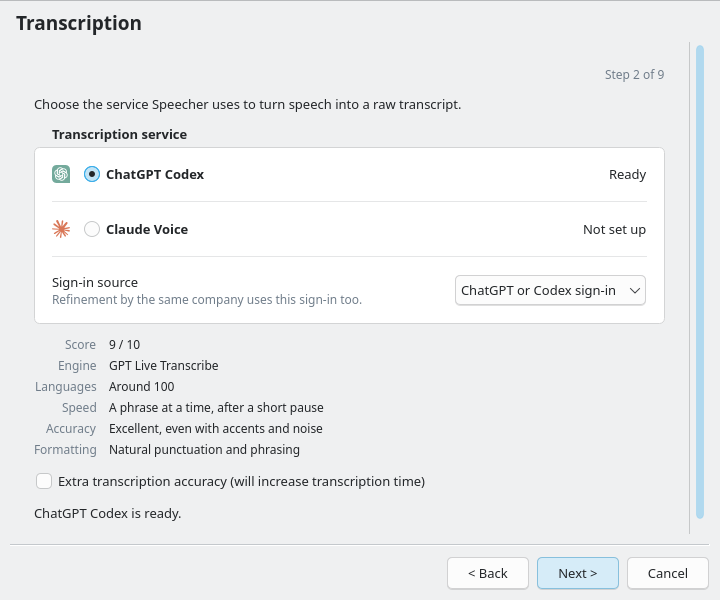
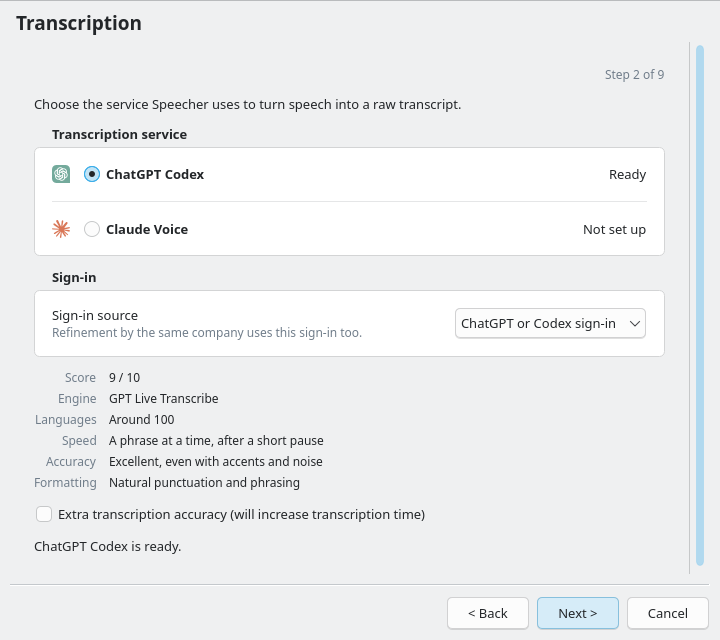
Give the setup sign-in controls their own card
Inside the Transcription service card the sign-in source dropdown read as a
second service picker. The controls move to a titled Sign-in card below the
service choice, the assistant grows to keep the page scrollbar-free, and the
whole section hides for a provider without these controls rather than
leaving a floating header.

diff --git a/src/ui/setup/SetupPages.cpp b/src/ui/setup/SetupPages.cpp
@@ -738,10 +738,16 @@ SpeechProviderSetupPage::SpeechProviderSetupPage(SettingsStore &settings,
         m_options.first().button->setChecked(true);
     }
 
-    // Where the chosen service's sign-in comes from, in the same card as the
-    // choice it belongs to. Someone whose only login lives in CLI Proxy API
-    // switches here instead of failing the probe and hunting through Settings.
-    QWidget *host = choices->parentWidget();
+    // Where the chosen service's sign-in comes from, in a card of its own:
+    // inside the service card the dropdown read as a second service picker.
+    // Someone whose only login lives in CLI Proxy API switches here instead of
+    // failing the probe and hunting through Settings.
+    QFormLayout *signIn = addCard(layout, this, QStringLiteral("Sign-in"));
+    QWidget *host = signIn->parentWidget();
+    // settingsCardForm -> card frame -> the titled section, which is what has
+    // to disappear for a provider without these controls; hiding only the card
+    // would leave the bold header floating.
+    m_signInSection = host->parentWidget()->parentWidget();
     m_signInSource = new QComboBox(host);
     m_signInSource->setObjectName(QStringLiteral("speechSignInSource"));
     // The items are swapped per provider after the first show; without this
@@ -752,14 +758,14 @@ SpeechProviderSetupPage::SpeechProviderSetupPage(SettingsStore &settings,
         QStringLiteral("Refinement by the same company uses this sign-in too."),
         m_signInSource,
         host);
-    settings::addCardRow(choices, m_signInSourceRow, host);
+    settings::addCardRow(signIn, m_signInSourceRow, host);
     m_cliproxyAccount = new QComboBox(host);
     m_cliproxyAccount->setObjectName(QStringLiteral("speechCliproxyAccount"));
     m_cliproxyAccountRow = settings::makeRow(QStringLiteral("CLI Proxy API account"),
                                              QString(),
                                              m_cliproxyAccount,
                                              host);
-    settings::addCardRow(choices, m_cliproxyAccountRow, host);
+    settings::addCardRow(signIn, m_cliproxyAccountRow, host);
     m_cliproxyDir = new QLineEdit(host);
     m_cliproxyDir->setObjectName(QStringLiteral("speechCliproxyDir"));
     m_cliproxyDir->setClearButtonEnabled(true);
@@ -768,7 +774,7 @@ SpeechProviderSetupPage::SpeechProviderSetupPage(SettingsStore &settings,
         QStringLiteral("Where CLI Proxy API keeps its account files. Leave empty to detect it automatically."),
         m_cliproxyDir,
         host);
-    settings::addCardRow(choices, m_cliproxyDirRow, host);
+    settings::addCardRow(signIn, m_cliproxyDirRow, host);
 
     m_hint->setObjectName(QStringLiteral("speechProviderHint"));
     m_hint->setWordWrap(true);
@@ -913,10 +919,8 @@ void SpeechProviderSetupPage::updateSignInControls()
     const QString providerId = index < 0 ? QString() : m_options.at(index).id;
     const bool known = providerId == QStringLiteral("claude")
         || providerId == QStringLiteral("codex");
-    setCardRowVisible(m_signInSourceRow, known);
+    m_signInSection->setVisible(known);
     if (!known) {
-        setCardRowVisible(m_cliproxyAccountRow, false);
-        setCardRowVisible(m_cliproxyDirRow, false);
         return;
     }
     const QString mode = speechSignInMode(m_settings, providerId);

diff --git a/src/ui/SetupAssistant.cpp b/src/ui/SetupAssistant.cpp
@@ -105,9 +105,9 @@ SetupAssistant::SetupAssistant(ApplicationController *controller,
     , m_singlePage(pageIndex(page) >= 0)
 {
     setWindowTitle(QStringLiteral("Speecher Setup Assistant"));
-    // Tall enough for the largest page (Transcription with its sign-in rows)
+    // Tall enough for the largest page (Transcription with its Sign-in card)
     // without a scrollbar, which narrows the cards and clips their statuses.
-    resize(720, 600);
+    resize(720, 640);
     setMinimumSize(620, 460);
 
     const int requestedPageIndex = pageIndex(page);

diff --git a/src/ui/setup/SetupPages.h b/src/ui/setup/SetupPages.h
@@ -189,6 +189,9 @@ private:
     QComboBox *m_signInSource = nullptr;
     QComboBox *m_cliproxyAccount = nullptr;
     QLineEdit *m_cliproxyDir = nullptr;
+    // The titled Sign-in section, hidden whole for a provider without these
+    // controls; hiding only rows would leave the bold header floating.
+    QWidget *m_signInSection = nullptr;
     QWidget *m_signInSourceRow = nullptr;
     QWidget *m_cliproxyAccountRow = nullptr;
     QWidget *m_cliproxyDirRow = nullptr;
